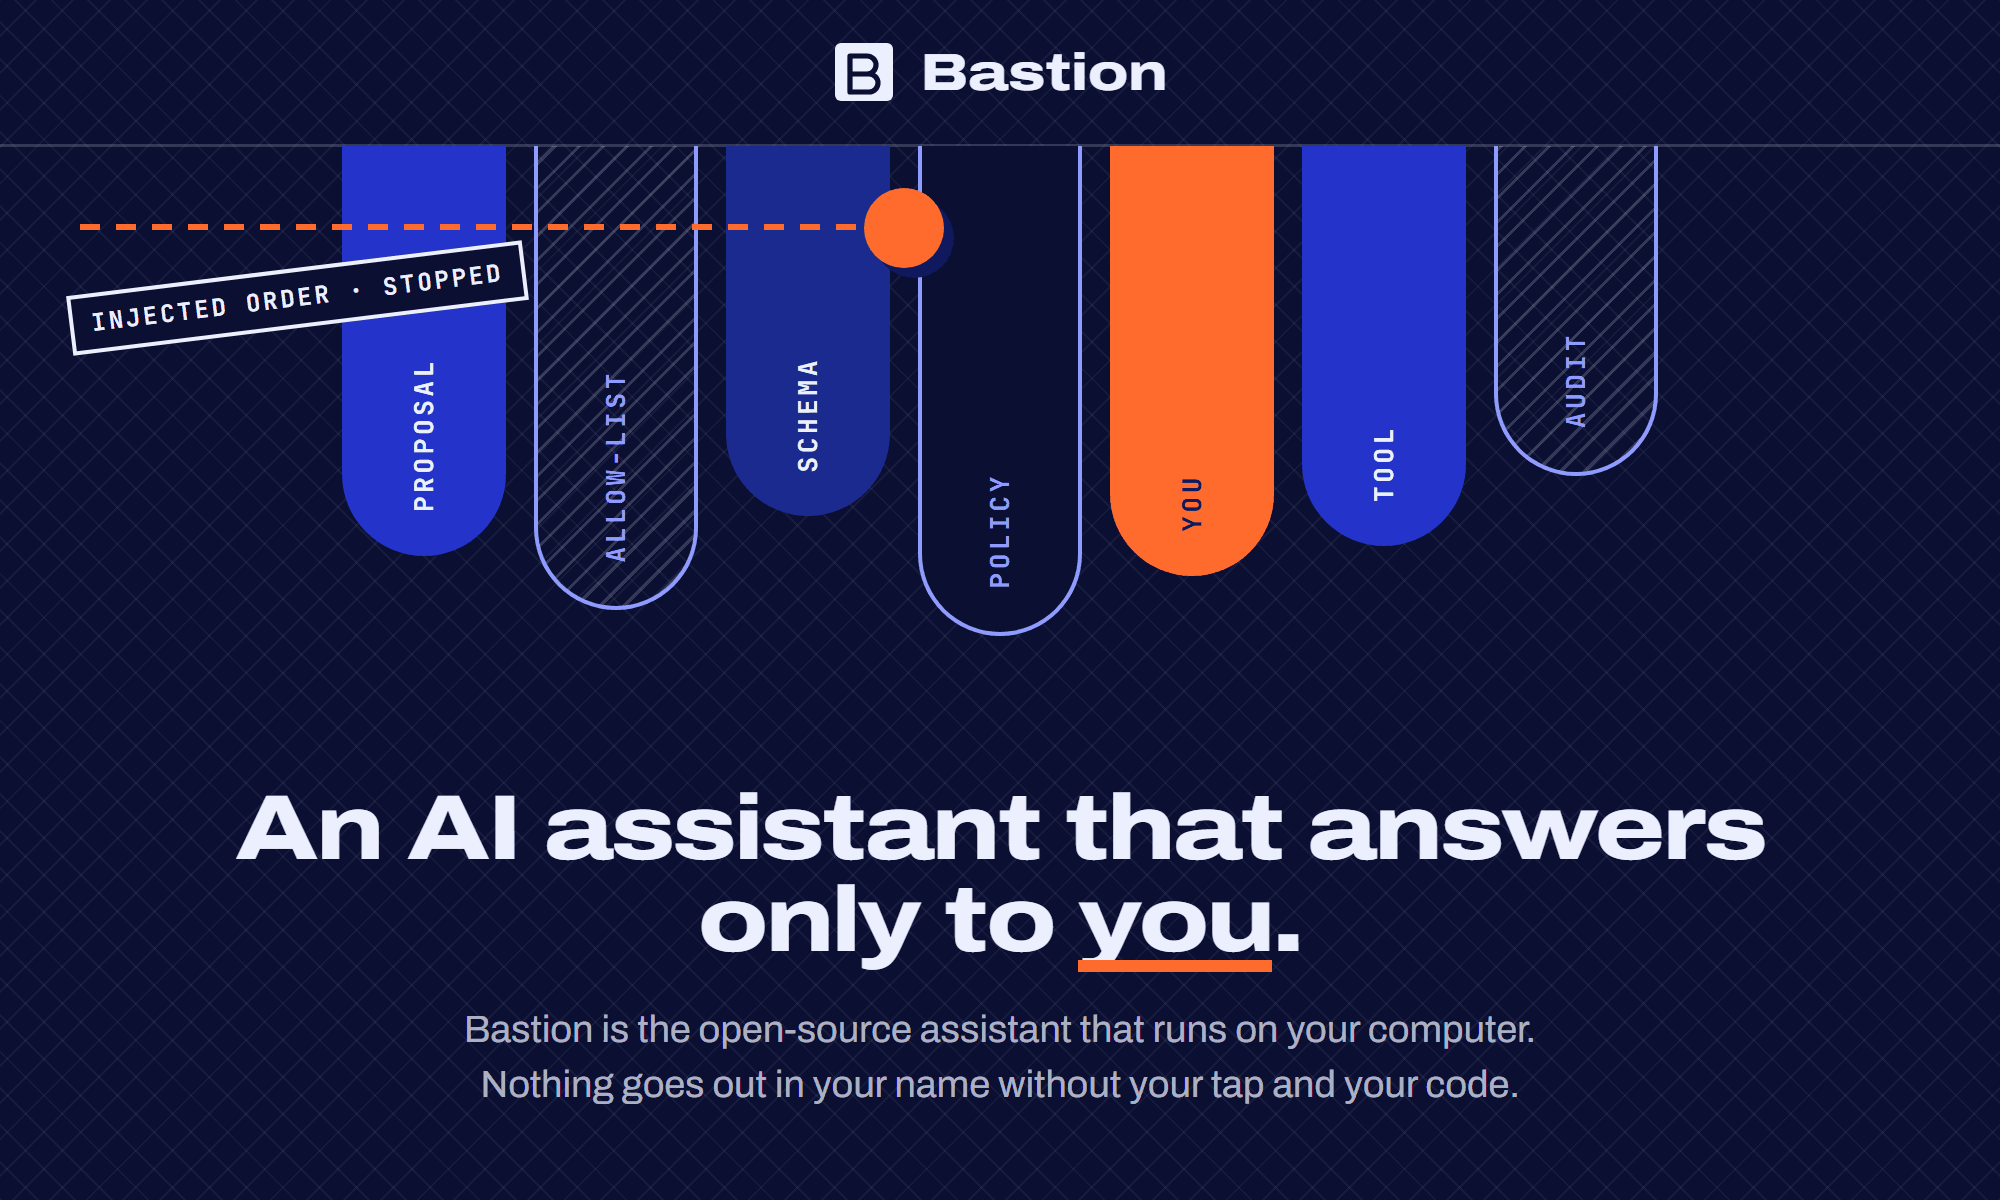
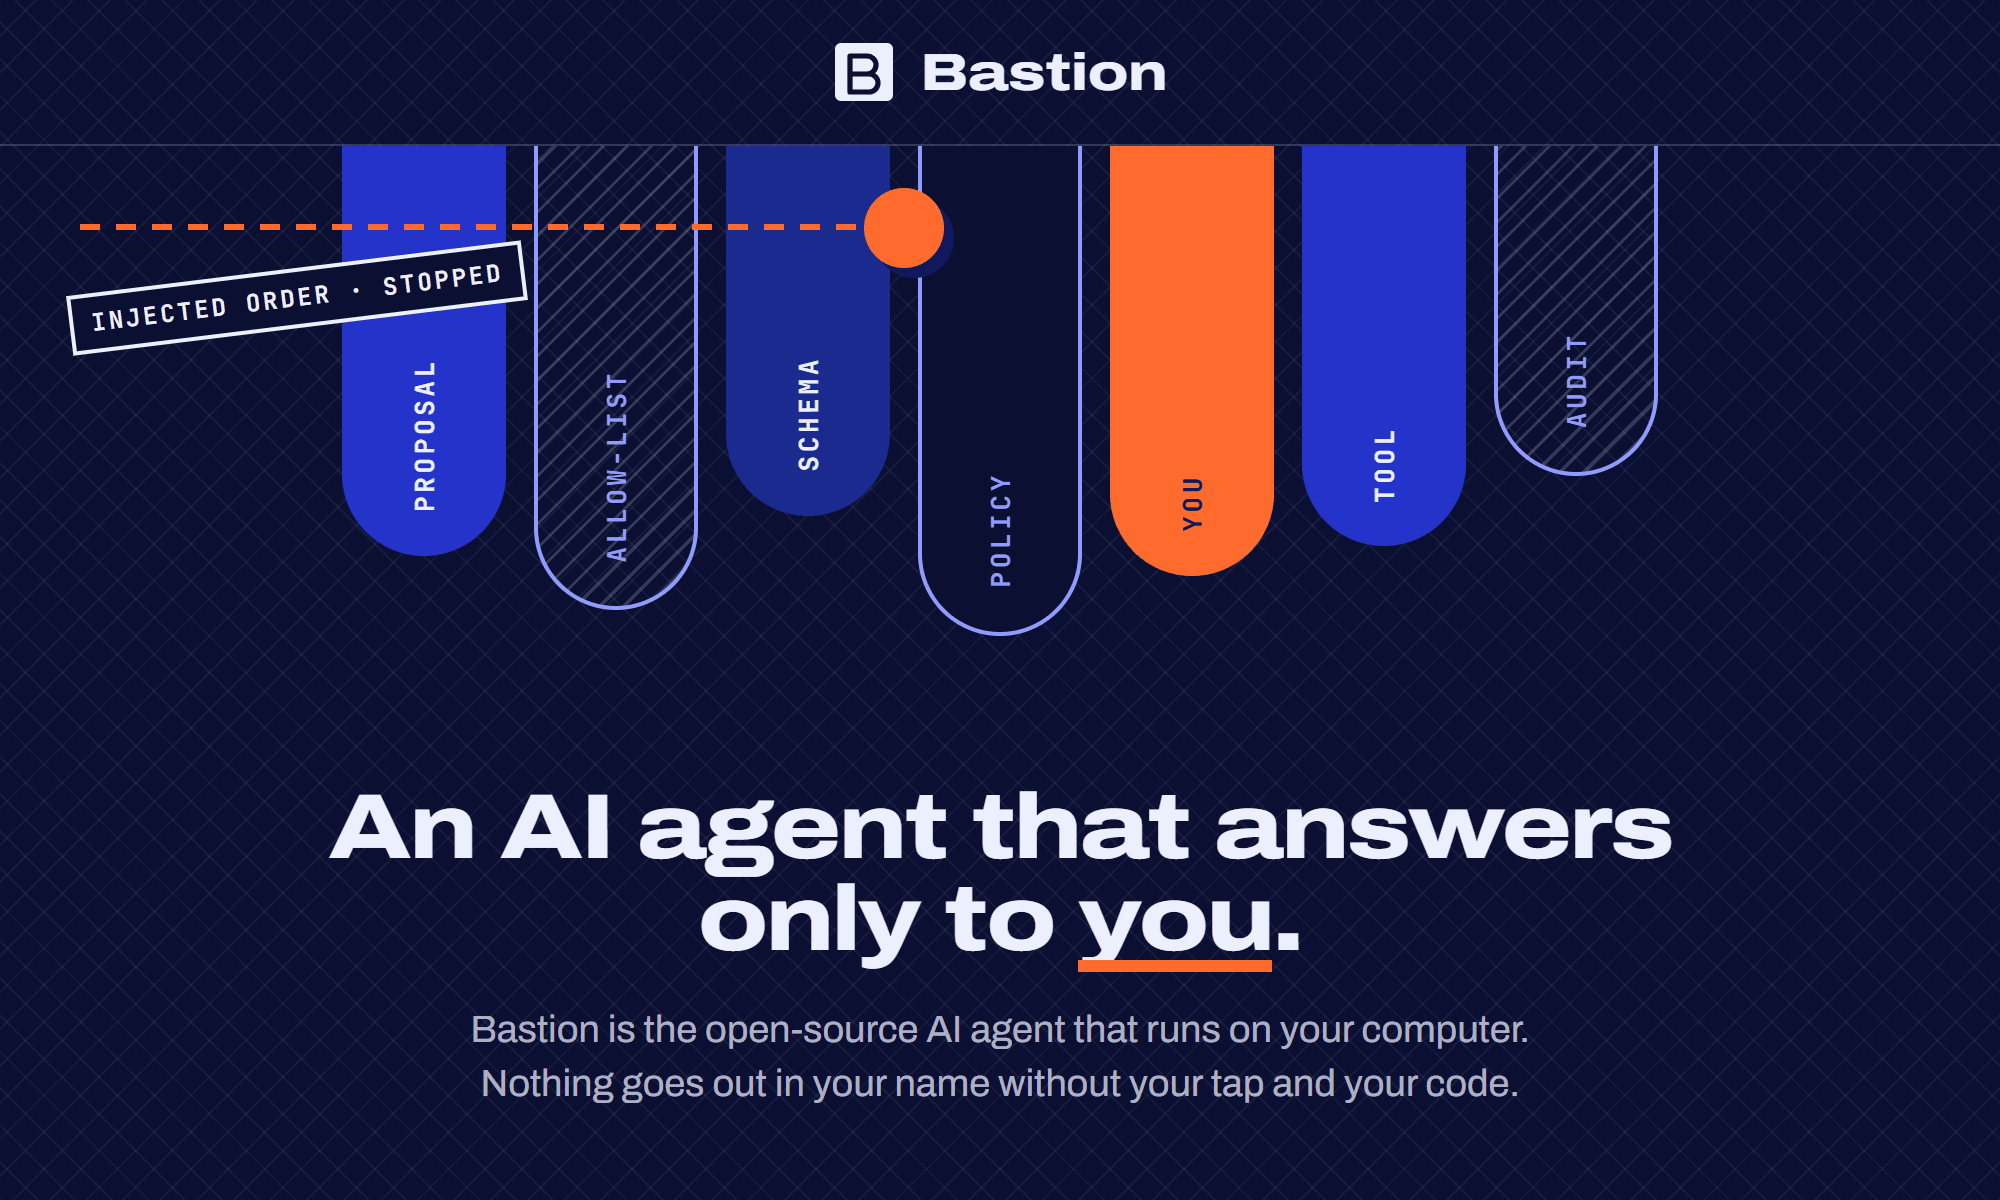
docs: tagline says 'AI agent', matching the package, CLI and repo description (#17)
'An AI agent that answers only to you' on the site (title, meta, og tags, hero, closing call to
action, Why section), the link-preview image, both README banners and the README intro. Other
products stay 'hosted assistants', and attacker text in the red-team scenarios is unchanged.

diff --git a/site/index.html b/site/index.html
@@ -3,18 +3,18 @@
 <head>
 <meta charset="utf-8">
 <meta name="viewport" content="width=device-width, initial-scale=1, viewport-fit=cover">
-<title>Bastion · An open-source AI assistant that answers only to you</title>
-<meta name="description" content="Bastion is an open-source personal AI assistant that runs on your computer. It handles your email, calendar and research from Telegram, and nothing goes out in your name without your tap and your authenticator code.">
+<title>Bastion · An open-source AI agent that answers only to you</title>
+<meta name="description" content="Bastion is an open-source personal AI agent that runs on your computer. It handles your email, calendar and research from Telegram, and nothing goes out in your name without your tap and your authenticator code.">
 <meta name="color-scheme" content="light">
 <meta name="theme-color" content="#eceffd">
 <meta property="og:type" content="website">
 <meta property="og:url" content="https://bastion-aryanvault.vercel.app/">
-<meta property="og:title" content="Bastion: an AI assistant that answers only to you">
+<meta property="og:title" content="Bastion: an AI agent that answers only to you">
 <meta property="og:description" content="Open source. Runs on your computer. 24 prompt-injection attacks, 0 got through.">
 <meta property="og:image" content="https://bastion-aryanvault.vercel.app/og.png">
 <meta property="og:image:width" content="1200">
 <meta property="og:image:height" content="630">
-<meta property="og:image:alt" content="Bastion: an AI assistant that answers only to you. 0 of 24 prompt-injection attacks got through.">
+<meta property="og:image:alt" content="Bastion: an AI agent that answers only to you. 0 of 24 prompt-injection attacks got through.">
 <meta name="twitter:card" content="summary_large_image">
 <meta name="twitter:image" content="https://bastion-aryanvault.vercel.app/og.png">
 <link rel="icon" href="favicon.svg" type="image/svg+xml">
@@ -51,8 +51,8 @@
   <div class="wrap hero-grid">
     <div class="hero-copy">
       <p class="eyebrow load" data-step="0">Open source · Runs on your computer · Free</p>
-      <h1 class="load" data-step="1">An AI assistant that answers only&nbsp;to&nbsp;<span class="u">you</span>.</h1>
-      <p class="lede load" data-step="2">Bastion is a personal assistant you run yourself. It reads your email, keeps your calendar, researches the web and runs errands you send it on Telegram. Anything that goes out in your name waits for your tap and your code.</p>
+      <h1 class="load" data-step="1">An AI agent that answers only&nbsp;to&nbsp;<span class="u">you</span>.</h1>
+      <p class="lede load" data-step="2">Bastion is a personal AI agent you run yourself. It reads your email, keeps your calendar, researches the web and runs errands you send it on Telegram. Anything that goes out in your name waits for your tap and your code.</p>
       <div class="cta load" data-step="3">
         <a class="btn btn-accent btn-lg" href="#start">Get Bastion, free <span class="arrow" aria-hidden="true">→</span></a>
         <a class="btn btn-line" href="#attack">Watch it get attacked</a>
@@ -117,8 +117,8 @@
   <div class="wrap">
     <header class="sec-head">
       <p class="eyebrow">Why Bastion</p>
-      <h2>There are a hundred AI assistants. Most of them trust the AI.</h2>
-      <p>An assistant that reads your email can be talked into things by the email itself. That’s prompt injection, and no model is immune to it. Most assistants ask the model to be careful. Bastion assumes the model will be fooled, and puts the rules in code that words can’t reach.</p>
+      <h2>There are a hundred AI agents. Most of them trust the AI.</h2>
+      <p>An agent that reads your email can be talked into things by the email itself. That’s prompt injection, and no model is immune to it. Most agents ask the model to be careful. Bastion assumes the model will be fooled, and puts the rules in code that words can’t reach.</p>
     </header>
 
     <div class="compare-wrap">
@@ -143,7 +143,7 @@
       <article class="fit-card">
         <h3>Bastion is for you if</h3>
         <ul>
-          <li>you want an assistant with real access to your email and calendar, without handing a chatbot the keys;</li>
+          <li>you want an AI agent with real access to your email and calendar, without handing a chatbot the keys;</li>
           <li>you’d rather it ran on hardware you control, with a model you pick;</li>
           <li>you want to read the code and the threat model before you trust it.</li>
         </ul>
@@ -153,7 +153,7 @@
         <ul>
           <li>you want zero setup: a hosted assistant is easier, and that’s a fair trade;</li>
           <li>you need it to browse websites for you or run code: it deliberately can’t, yet;</li>
-          <li>you need a shared assistant for a team: it’s paired to one person.</li>
+          <li>you need a shared agent for a team: it’s paired to one person.</li>
         </ul>
       </article>
     </div>
@@ -358,7 +358,7 @@
 <!-- ============================================================ final call to action (accent) -->
 <section class="band tone-accent final">
   <div class="wrap final-in">
-    <h2>Put an assistant on your phone that answers only to you.</h2>
+    <h2>Put an AI agent on your phone that answers only to you.</h2>
     <div class="cta">
       <a class="btn btn-ink btn-lg" href="https://github.com/AryanVault/bastion#get-started">Install it in ten minutes <span class="arrow" aria-hidden="true">→</span></a>
       <a class="btn btn-line" href="https://github.com/AryanVault/bastion">Star it on GitHub</a>

diff --git a/README.md b/README.md
@@ -2,7 +2,7 @@
   <a href="https://bastion-aryanvault.vercel.app/">
     <picture>
       <source media="(prefers-color-scheme: dark)" srcset="docs/assets/banner-dark.png">
-      <img src="docs/assets/banner-light.png" width="860" alt="Bastion. An AI assistant that answers only to you. Bastion is the open-source assistant that runs on your computer. Nothing goes out in your name without your tap and your code.">
+      <img src="docs/assets/banner-light.png" width="860" alt="Bastion. An AI agent that answers only to you. Bastion is the open-source AI agent that runs on your computer. Nothing goes out in your name without your tap and your code.">
     </picture>
   </a>
 </p>
@@ -29,10 +29,10 @@
 
 ---
 
-**Your personal, open-source AI assistant. It runs on your computer, answers you on Telegram, and
+**Your personal, open-source AI agent. It runs on your computer, answers you on Telegram, and
 its security doesn't depend on the AI behaving.**
 
-Bastion is a personal assistant you run yourself, on your own computer or home server, and
+Bastion is a personal AI agent you run yourself, on your own computer or home server, and
 message from your phone (Telegram) or your terminal. It reads and drafts your email, manages your
 calendar, researches the web, remembers things for you, and runs jobs on a schedule, such as a
 briefing every morning. There is no Bastion account and no Bastion server: it's yours.
@@ -46,7 +46,7 @@ reaches other people or cannot be undone waits for your approval and your authen
 > [report problems](../../issues).
 
 **Contents:** [What it does](#what-it-does) · [Open source, local and personal](#open-source-local-and-personal) ·
-[Why Bastion](#why-bastion-and-not-another-assistant) · [Why you can trust it](#why-you-can-trust-it) ·
+[Why Bastion](#why-bastion-and-not-another-ai-agent) · [Why you can trust it](#why-you-can-trust-it) ·
 [Get started](#get-started) · [Everyday use](#everyday-use) ·
 [Troubleshooting](#troubleshooting) · [How it works](#how-it-works) ·
 [Development](#development)
@@ -77,10 +77,10 @@ reaches other people or cannot be undone waits for your approval and your authen
 AI provider you choose, and your Telegram messages pass through Telegram. With a local model
 (Ollama), the AI part stays on your machine too.
 
-## Why Bastion, and not another assistant
+## Why Bastion, and not another AI agent
 
-An assistant that reads your email can be talked into things by the email itself (prompt
-injection), and no model is immune to it. Most assistants ask the model to be careful. Bastion
+An agent that reads your email can be talked into things by the email itself (prompt
+injection), and no model is immune to it. Most agents ask the model to be careful. Bastion
 assumes the model **will** be fooled and puts the rules in code that no message can reach.
 
 - **Hosted assistants** run on someone else's servers with their model, and mostly rely on the
@@ -92,7 +92,7 @@ assumes the model **will** be fooled and puts the rules in code that no message 
   [results](docs/RED_TEAM.md) are published.
 
 It's not the right pick if you want zero setup (a hosted assistant is easier), need it to browse
-websites or run code (deliberately out of scope for now), or want a shared assistant for a team.
+websites or run code (deliberately out of scope for now), or want a shared agent for a team.
 
 ## Why you can trust it
 
@@ -214,7 +214,7 @@ Choose how much Bastion may do (the default is `--gmail draft --calendar write`)
 | `--calendar write` | ...and create, change and delete events (inviting people or deleting needs your approval and authenticator code) |
 
 When Bastion reads an email, a separate AI with no abilities summarises it first, so the
-assistant never acts on the sender's words directly. `bastion google status` checks the
+agent never acts on the sender's words directly. `bastion google status` checks the
 connection; `bastion google disconnect` revokes it at Google and removes it from your computer.
 
 ### 7. Turn on web search
